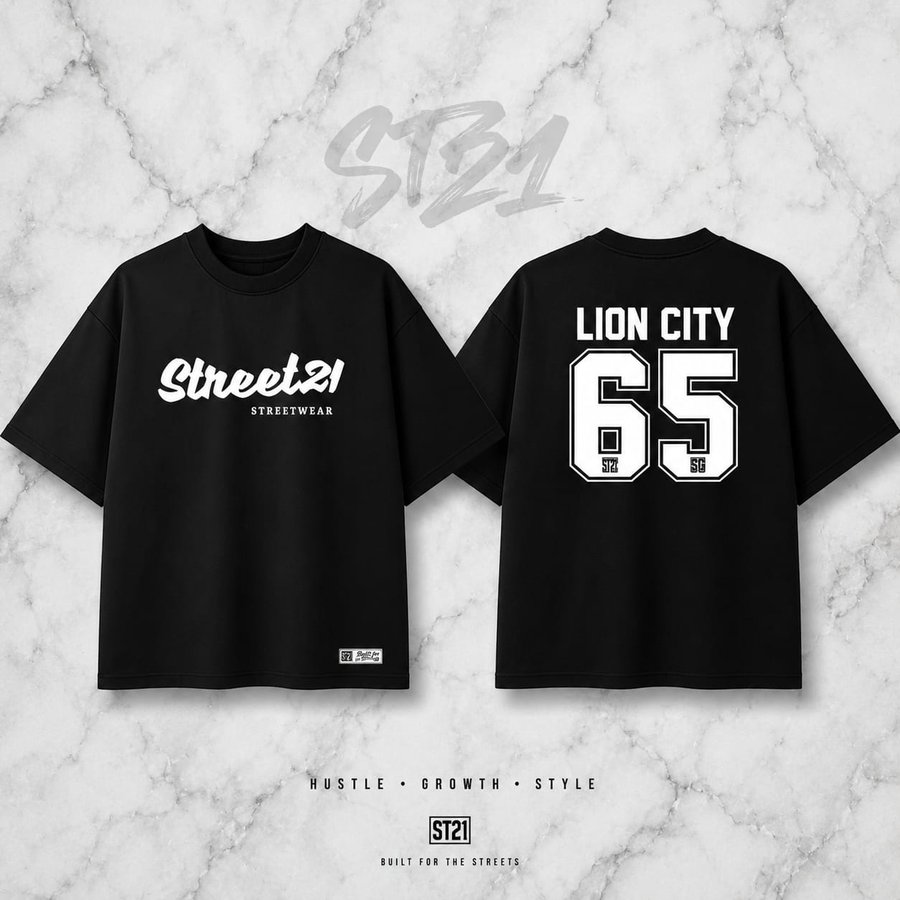
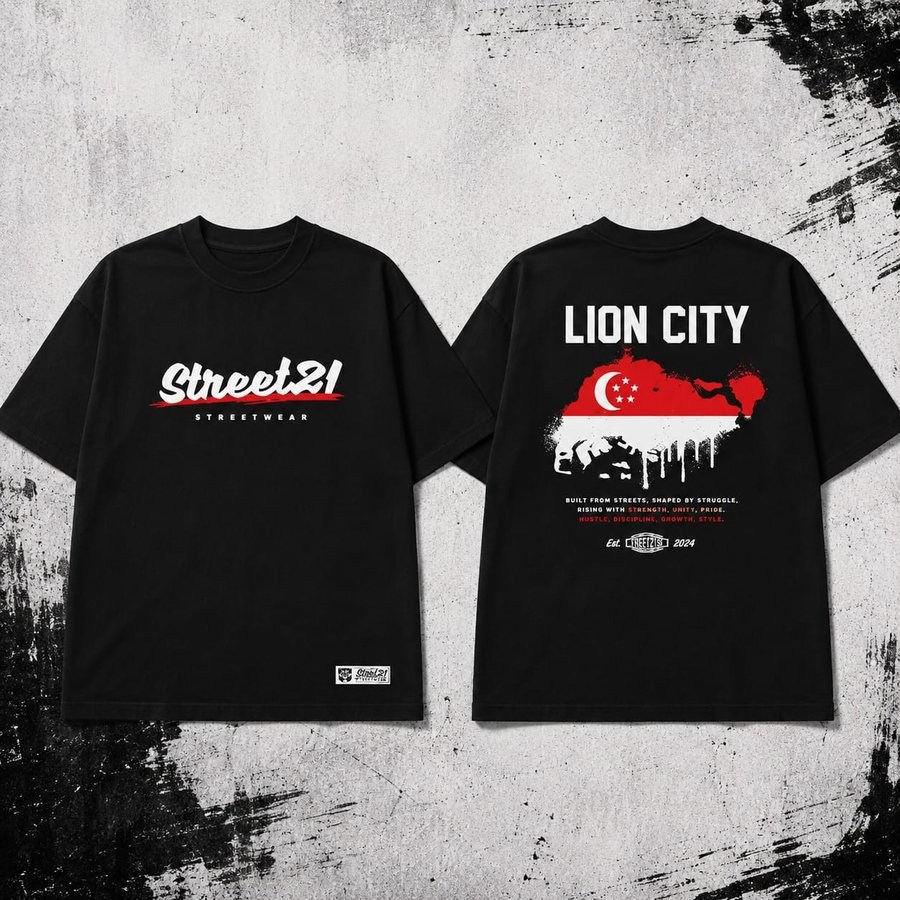
Split Lion City into two products: 2026 (flag design) and 2025 (jersey number design)

diff --git a/index.html b/index.html
@@ -106,9 +106,9 @@
         </div>
         <button class="size-chart-btn" data-chart="assets/sizecharts/prove-them-wrong.jpg" data-title="Prove Them Wrong">Size Chart</button>
       </div>
-      <div class="product-card" data-name="Lion City" data-variant="Oversized Tee · Black Only">
-        <img src="assets/product-lion-city.jpg" alt="Lion City — Oversized Tee">
-        <p class="product-name">Lion City</p>
+      <div class="product-card" data-name="Lion City 2026" data-variant="Oversized Tee · Black Only">
+        <img src="assets/product-lion-city.jpg" alt="Lion City 2026 — Oversized Tee">
+        <p class="product-name">Lion City 2026</p>
         <p class="product-meta">Oversized Tee · Black Only</p>
         <div class="product-actions">
           <select class="size-select">
@@ -118,7 +118,7 @@
           </select>
           <button class="add-to-cart-btn">Add to Cart</button>
         </div>
-        <button class="size-chart-btn" data-chart="assets/sizecharts/lion-city.jpg" data-title="Lion City">Size Chart</button>
+        <button class="size-chart-btn" data-chart="assets/sizecharts/lion-city.jpg" data-title="Lion City 2026">Size Chart</button>
       </div>
     </div>
 
@@ -151,6 +151,18 @@
           <button class="add-to-cart-btn">Add to Cart</button>
         </div>
         <button class="size-chart-btn" data-chart="assets/sizecharts/tawakal.jpg" data-title="Tawakal">Size Chart</button>
+      </div>
+      <div class="product-card" data-name="Lion City 2025" data-variant="Oversized Tee · Black Only">
+        <img src="assets/product-lion-city-2025.jpg" alt="Lion City 2025 — Oversized Tee">
+        <p class="product-name">Lion City 2025</p>
+        <p class="product-meta">Oversized Tee · Black Only</p>
+        <div class="product-actions">
+          <select class="size-select">
+            <option value="">Size</option>
+            <option>S</option><option>M</option><option>L</option><option>XL</option><option>2XL</option>
+          </select>
+          <button class="add-to-cart-btn">Add to Cart</button>
+        </div>
       </div>
       <div class="product-card" data-name="Change Your Mindset" data-variant="Oversized Tee · Black Only">
         <img src="assets/product-change-mindset.jpg" alt="Change Your Mindset — Oversized Tee">
